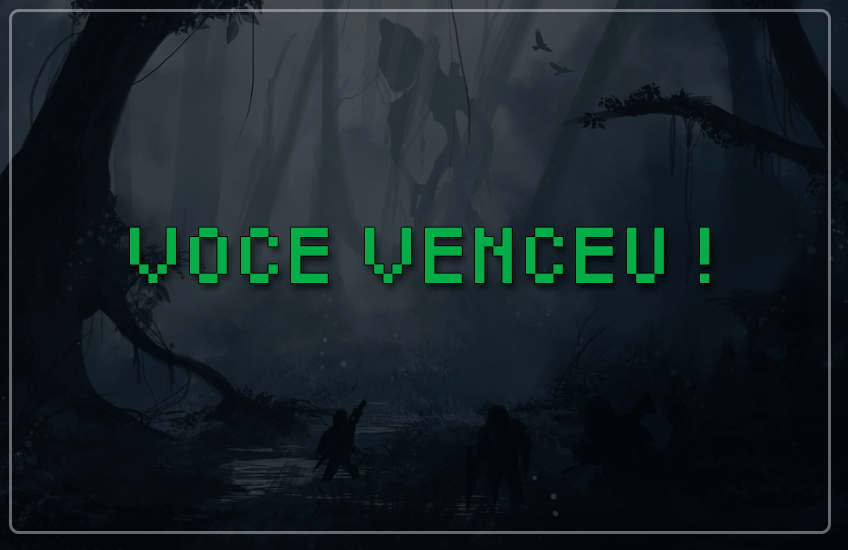
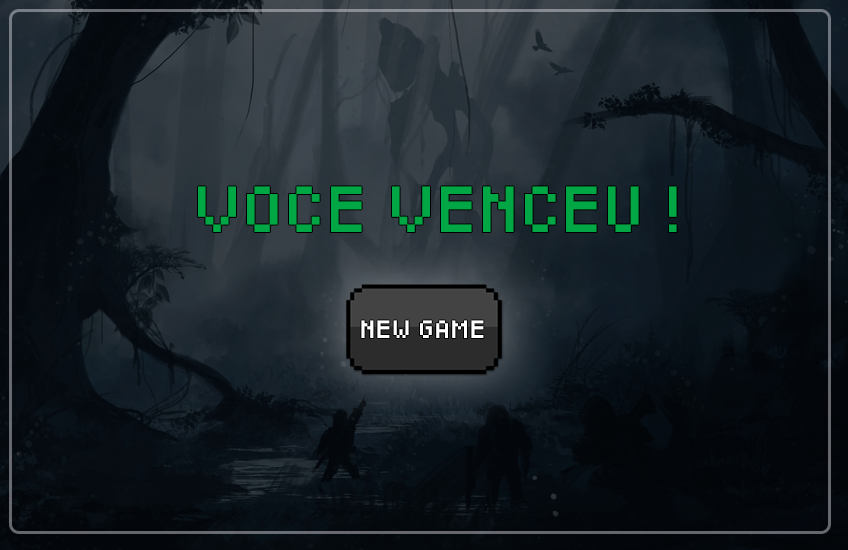
Game pronto

Changed region(s): [[0.1533, 0.3091, 0.8585, 0.7418]]

diff --git a/index.html b/index.html
@@ -17,7 +17,7 @@
 </head>
 
 <body>
-    <!-- <img src="./Assets/borda.png" width=930 height=615 style="margin-left: 14.5%; margin-top: -1%;"> -->
+     <img src="./Assets/BG.jpg" width=1300 height=602>
     <canvas></canvas>
     <script>
         var assetsMng = new AssetsManager();
@@ -37,6 +37,7 @@
         assetsMng.loadImage("coin", "Assets/coin.png");
         assetsMng.loadImage("tut", "Assets/Tutorial.png");
         assetsMng.loadImage("Venceu", "Assets/Venceu.png");
+        assetsMng.loadImage("map", "Assets/map.jpg");
 
         var canvas = document.querySelector("canvas");
         canvas.width = 850;
@@ -65,8 +66,8 @@
         var mapa = new Map({COLUMNS:30, LINES:21, assets: assetsMng, m:
         [
         [2,2,2,2,2,2,2,2,2,2,2,2,2,3,3,2,2,2,2,2,2,2,2,2,2,2,2,2,2,2],
-        [2,0,0,0,0,0,0,0,0,0,0,0,0,3,3,0,0,0,0,0,0,0,0,0,1,0,0,1,1,2],
-        [2,0,0,1,1,1,0,0,0,0,0,0,3,3,3,1,1,0,1,0,0,0,0,0,1,0,0,4,1,2],
+        [2,0,0,0,0,0,0,0,0,0,0,0,0,3,3,0,0,0,1,0,0,0,0,0,1,0,0,1,1,2],
+        [2,0,0,1,1,1,0,0,0,0,0,0,3,3,3,0,1,1,1,0,0,0,0,0,1,0,0,4,1,2],
         [2,0,1,1,0,1,1,1,0,0,0,0,3,3,0,0,1,0,1,1,0,1,0,0,1,0,0,0,0,2],
         [2,0,1,1,0,0,0,1,1,1,0,0,3,3,0,0,0,0,0,1,0,1,1,0,0,0,0,0,0,2],
         [2,0,0,0,0,0,0,0,0,0,0,0,3,3,0,0,0,0,0,1,0,0,1,1,0,0,0,0,1,2],
@@ -92,33 +93,30 @@
 
         var pc = new Sprite({ x: 45, y: 250, w: 20, h: 20, assets: assetsMng, scene: cena1, comportar: porTeclasDirecionais(teclas), props: { tipo: "pc" }});
         var npc = new Enemy({ x: 100+300*Math.random(), y:100+300*Math.random(), w: 32, h:32, a: 7, vm: 100, pc: pc, map: mapa, assets: assetsMng, comportar: persegue( pc ), props: { tipo: "npc" }});
-        var portal = new Portal ({assets: assetsMng});
+        var portal = new Portal ({ assets: assetsMng });
         
         cena1.adicionar(pc);
         cena1.adicionar(npc);
-            cena1.adicionar(new Coin({x: 32*14, 
-                                     y: 32*13, assets: assetsMng, scene: cena1, map: mapa }));
-            cena1.adicionar(new Coin({x: 32*8, 
-                                     y: 32*9, assets: assetsMng, scene: cena1, map: mapa }));  
-            cena1.adicionar(new Coin({x: 32*12, 
-                                     y: 32*19, assets: assetsMng, scene: cena1, map: mapa }));    
-            cena1.adicionar(new Coin({x: 32*28, 
-                                     y: 32*3, assets: assetsMng, scene: cena1, map: mapa }));
-            cena1.adicionar(new Coin({x: 32*15, 
-                                     y: 32*1, assets: assetsMng, scene: cena1, map: mapa }));
-            cena1.adicionar(new Coin({x: 32*23, 
-                                     y: 32*15, assets: assetsMng, scene: cena1, map: mapa }));
-            cena1.adicionar(new Coin({x: 32*28, 
-                                     y: 32*11, assets: assetsMng, scene: cena1, map: mapa }));
+            cena1.adicionar(new Coin({x: 32*14.5, 
+                                     y: 32*13.4, assets: assetsMng, scene: cena1, map: mapa }));
+            cena1.adicionar(new Coin({x: 32*2.5, 
+                                     y: 32*2.6, assets: assetsMng, scene: cena1, map: mapa }));  
+            cena1.adicionar(new Coin({x: 32*12.5, 
+                                     y: 32*19.5, assets: assetsMng, scene: cena1, map: mapa }));    
+            cena1.adicionar(new Coin({x: 32*28.4, 
+                                     y: 32*3.6, assets: assetsMng, scene: cena1, map: mapa }));
+            cena1.adicionar(new Coin({x: 32*17.5, 
+                                     y: 32*1.6, assets: assetsMng, scene: cena1, map: mapa }));
+            cena1.adicionar(new Coin({x: 32*23.5, 
+                                     y: 32*15.5, assets: assetsMng, scene: cena1, map: mapa }));
+            cena1.adicionar(new Coin({x: 32*28.4, 
+                                     y: 32*11.6, assets: assetsMng, scene: cena1, map: mapa }));
         cena1.adicionar(portal);
-
-        //cena1.adicionar(new Enemy({ x: 100+300*Math.random(), y:100+300*Math.random(), w: 32, h:32, a: 7, vm: 100, pc: pc, map: mapa, assets: assetsMng, comportar: persegue( pc ), props: { tipo: "pc" }}));
-        
         
         function persegue(alvo){
             return function(){
-                this.vx =  40 * Math.sign(alvo.x - this.x);
-                this.vy =  40 * Math.sign(alvo.y - this.y);
+                this.vx =  40 * Math.sign(alvo.x - this.x-this.w/2);
+                this.vy =  40 * Math.sign(alvo.y - this.y-this.h/2);
             }
         }
 
@@ -195,11 +193,13 @@
                 pc.y = 250;
                 pc.vidas = 5;
                 pc.score = 0;
+                cena1.reseta();
                 estadoAtual = estados.start;
             } 
             else if( estadoAtual == estados.jogar){
                 estadoAtual = estados.tut;
-            } else if( estadoAtual == estados.ganhou){
+            } 
+            else if( estadoAtual == estados.ganhou){
                     npc.x =  100+300*Math.random(); 
                     npc.y = 100+300*Math.random();
                     pc.x = 45;
@@ -207,6 +207,7 @@
                     pc.vidas = 5;
                     pc.score = 0;
                     portal.x = 2000;
+                    cena1.reseta();
                     estadoAtual = estados.jogar;
             }             
         });
@@ -223,7 +224,7 @@
             if(assetsMng.progresso() === 100 && estadoAtual == estados.jogando){
                 cena1.passo(dt, ctx);
             }
-            if( pc.vidas == -100){                
+            if( pc.vidas == 0){                
                 estadoAtual = estados.perdeu;
             }
                 
@@ -252,13 +253,15 @@
         if( estadoAtual == estados.tut){
             ctx.drawImage(assetsMng.img("tut"), 0, 0, 860, 550);
         }
-        if( pc.score == 1 && estadoAtual == estados.jogando){
-            portal.x = 14*32; 
-
-            if(pc.colidiuCom( portal ) && estadoAtual == estados.jogando){
-                ctx.drawImage(assetsMng.img("Venceu"), 0, 0, 860, 550);
-                }   
-            }
+        if( pc.score == 7 && estadoAtual == estados.jogando){
+            portal.x = 28.6*32; 
+        }
+        if(pc.colidiuComPortal( portal ) && estadoAtual == estados.jogando){
+            estadoAtual = estados.ganhou;
+        }   
+        if( estadoAtual == estados.ganhou){
+            ctx.drawImage(assetsMng.img("Venceu"), 0, 0, 860, 550);
+        }
     }
     
         var dt, anterior = 0;

diff --git a/Sprite.js b/Sprite.js
@@ -3,7 +3,7 @@ function Sprite(params = {}) {
         x: 0,    y: 0,
         vx: 0,  vy: 0,
         ax: 0,  ay: 0,
-        w: 32,  h: 32,   
+        w: 35,  h: 35,   
         a: 0,
         va: 0,    vm: 0,
         frame: 0,
@@ -179,10 +179,29 @@ Sprite.prototype.aplicaRestricoes = function (dt) {
 }
 
 Sprite.prototype.colidiuCom = function (alvo) {
-    if ((alvo.x + alvo.w/2 )-5  < this.x - this.w / 2) return false;
-    if ((alvo.x - alvo.w/2 )-5  > this.x + this.w / 2) return false;
-    if ((alvo.y + alvo.h/2 )-5  < this.y - this.h / 2) return false;
-    if ((alvo.y - alvo.h/2 )-5  > this.y + this.h / 2) return false;
+    if ((alvo.x + alvo.w/2 )-2  < this.x - this.w / 2) return false;
+    if ((alvo.x - alvo.w/2 )-2  > this.x + this.w / 2) return false;
+    if ((alvo.y + alvo.h/2 )-2  < this.y - this.h / 2) return false;
+    if ((alvo.y - alvo.h/2 )-2  > this.y + this.h / 2) return false;
+
+    return true;
+}
+
+Sprite.prototype.colidiuComMoeda = function (alvo) {
+    if ((alvo.x + alvo.w/2 ) < this.x - this.w / 2) return false;
+    if ((alvo.x - alvo.w/2 ) > this.x + this.w / 2) return false;
+    if ((alvo.y + alvo.h/2 ) < this.y - this.h / 2) return false;
+    if ((alvo.y - alvo.h/2 ) > this.y + this.h / 2) return false;
+
+
+    return true;
+}
+
+Sprite.prototype.colidiuComPortal = function (alvo) {
+    if ((alvo.x )  < this.x - this.w / 2) return false;
+    if ((alvo.x )  > this.x + this.w / 2) return false;
+    if ((alvo.y )  < this.y - this.h / 2) return false;
+    if ((alvo.y )  > this.y + this.h / 2) return false;
 
     return true;
 }

diff --git a/Scene.js b/Scene.js
@@ -1,10 +1,11 @@
 function Scene(params) {
     var exemplo ={
         sprites: [],
+        sprites2: [],
         toRemove: [],
         ctx: null,
-        w: 300,
-        h: 300,
+        w: 850,
+        h: 550,
         assets: null,
         map: null
     }
@@ -16,6 +17,7 @@ Scene.prototype.constructor = Scene;
 
 Scene.prototype.adicionar = function(sprite){
     this.sprites.push(sprite);
+    this.sprites2.push(sprite);
     sprite.scene = this;
 };
 
@@ -41,6 +43,11 @@ Scene.prototype.comportar = function(){
     this.checaColisao(); 
 };
 
+Scene.prototype.reseta = function(){
+    for(var i = 0; i < this.sprites2.length; i++){
+        this.sprites[i] = this.sprites2[i];
+    }
+}
 
 Scene.prototype.limpar = function(){
     this.ctx.clearRect(0,0, this.w, this.h);
@@ -57,7 +64,7 @@ Scene.prototype.checaColisao = function(){
         }
     }
     for( var i=2; i<this.sprites.length; i++){
-        if( this.sprites[0].colidiuCom(this.sprites[i]) ){
+        if( this.sprites[0].colidiuComMoeda(this.sprites[i]) ){
             this.sprites[0].score = this.sprites[0].score + 1;  
             this.sprites[0].cooldown = 1;
             this.toRemove.push(this.sprites[i]);
@@ -69,7 +76,7 @@ Scene.prototype.removeSprites = function () {
     for (var i = 0; i < this.toRemove.length; i++) {
         var idx = this.sprites.indexOf(this.toRemove[i]);
         if(idx >= 0){
-            this.sprites.splice(idx,1);
+            this.sprites.splice(idx, 1);
         }
     }
     this.toRemove = [];

diff --git a/Coin.js b/Coin.js
@@ -3,7 +3,7 @@ function Coin(params = {}) {
         x: 150,    y: 150,
         vx: 0,  vy: 0,
         ax: 0,  ay: 0,
-        w: 25,  h: 32,   
+        w: 27,  h: 34,   
         a: 0,
         va: 0,    vm: 0,
         frame: 0,
@@ -25,7 +25,6 @@ Coin.prototype.mover = function(dt){
     this.frame += 12*dt;
     //this.aplicaRestricoes(dt);
 
-    this.checaColisao();
 }
 
 Coin.prototype.desenhar = function (ctx) {
@@ -33,25 +32,19 @@ Coin.prototype.desenhar = function (ctx) {
     ctx.save();
     var F = Math.floor(this.frame);
 
+        ctx.translate(this.x, this.y);
         //ctx.fillStyle = this.color;
-        //ctx.fillRect(this.x, this.y, this.w, this.h);
+        //ctx.fillRect(-this.w / 2, -this.h / 2, this.w, this.h);
         ctx.drawImage(
             this.scene.assets.img("coin"),
             (F%9)*109,
             0,
             109,
             130,
-            this.x,
-            this.y,
+            -this.w / 2,
+            -this.h / 2,
             this.w,
             this.h 
         );
     ctx.restore();
 };
-
-Coin.prototype.checaColisao = function(alvo){
-    
-}
-
-
-

diff --git a/Portal.js b/Portal.js
@@ -1,6 +1,6 @@
 function Portal(params = {}) {
     var exemplo = {
-        x: 2000,    y: 18*32,
+        x: 2000,    y: 17.8*32,
         vx: 0,  vy: 0,
         ax: 0,  ay: 0,
         w: 25,  h: 32,   
@@ -27,18 +27,19 @@ Portal.prototype.mover = function(dt){
 Portal.prototype.desenhar = function (ctx) {
 
     ctx.save();
+    ctx.translate(this.x, this.y);
         //ctx.fillStyle = this.color;
-        //ctx.fillRect(this.x, this.y, this.w, this.h);
+        //ctx.fillRect(-this.w / 2, -this.h / 2, this.w, this.h);
         ctx.drawImage(
             this.assets.img("chao"),
             64, // Corte na vertical
             96, //Corte na horizontal
             32,
             32,
-            this.x,
-            this.y,
-            32,
-            32,
+            -this.w / 2,
+            -this.h / 2,
+            this.w,
+            this.h,
         );
     ctx.restore();
 };

diff --git a/Map.js b/Map.js
@@ -55,11 +55,11 @@ Map.prototype.desenhar = function (ctx) {
             } 
             if(this.cells[c][l].tipo == 2){
                 ctx.drawImage(
-                    this.assets.img("chao"),
-                    192, // Corte na vertical
-                    32, //Corte na horizontal
-                    32,
-                    32,
+                    this.assets.img("map"),
+                    0, // Corte na vertical
+                    527, //Corte na horizontal
+                    75,
+                    75,
                     c*this.SIZE,
                     l*this.SIZE,
                     32,
@@ -105,6 +105,7 @@ Map.prototype.desenhar = function (ctx) {
                     32,
                 );
             }
+            
         }
     }
      

diff --git a/Enemy.js b/Enemy.js
@@ -57,7 +57,7 @@ Enemy.prototype.desenhar = function (ctx) {
             35,
             32
         );
-    }  
+    }
     ctx.restore();
 };
 

diff --git a/Style.css b/Style.css
@@ -16,6 +16,4 @@ h1{
     text-align: left;
 }
 
-body {
-    background-color: rgb(122, 122, 122);
-}
+
